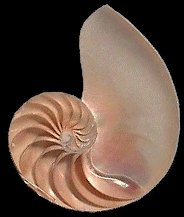
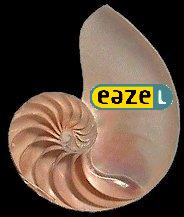
fixed update problem with zoom control and disabled arrows when
fixed update problem with zoom control and disabled arrows when
       appropriate.
       Also, crassly slapped an Eazel logo on the nautilus image

Changed region(s): [[0.462, 0.3871, 0.9511, 0.5253], [0.8152, 0.8571, 0.8424, 0.8848], [0.4348, 0.4424, 0.462, 0.47]]

diff --git a/src/nautilus-zoom-control.c b/src/nautilus-zoom-control.c
@@ -35,8 +35,11 @@
 
 static void nautilus_zoom_control_class_initialize 	(NautilusZoomControlClass *klass);
 static void nautilus_zoom_control_initialize       	(NautilusZoomControl *pixmap);
-static void nautilus_zoom_control_draw 				(GtkWidget *widget, GdkRectangle *box);
-static gboolean nautilus_zoom_control_button_press_event (GtkWidget *widget, GdkEventButton *event);
+static void nautilus_zoom_control_draw 			(GtkWidget *widget, GdkRectangle *box);
+static gint nautilus_zoom_control_expose 		(GtkWidget *widget, GdkEventExpose *event);
+static gboolean nautilus_zoom_control_button_press_event(GtkWidget *widget, GdkEventButton *event);
+
+void draw_number_and_disable_arrows(GtkWidget *widget, GdkRectangle *box);
 
 static GtkEventBoxClass *parent_class;
 
@@ -76,6 +79,7 @@ nautilus_zoom_control_class_initialize (NautilusZoomControlClass *class)
   parent_class = gtk_type_class (gtk_event_box_get_type ());
 
   widget_class->draw = nautilus_zoom_control_draw;
+  widget_class->expose_event = nautilus_zoom_control_expose;
   widget_class->button_press_event = nautilus_zoom_control_button_press_event;
 }
 
@@ -107,26 +111,15 @@ nautilus_zoom_control_new ()
   return GTK_WIDGET (zoom_control);
 }
 
-static void
-nautilus_zoom_control_draw (GtkWidget *widget, GdkRectangle *box)
+/* draw the current zoom percentage */
+void draw_number_and_disable_arrows(GtkWidget *widget, GdkRectangle *box)
 {
-  NautilusZoomControl *zoom_control;
   gchar buffer[8];
   GdkFont *label_font;
-  GdkGC* temp_gc;
-  
-  gint x, y, percent;
-
-  g_return_if_fail (widget != NULL);
-  g_return_if_fail (NAUTILUS_IS_ZOOM_CONTROL (widget));
-
-  zoom_control = NAUTILUS_ZOOM_CONTROL (widget);
-
-  /* invoke our superclass to draw the image */
- 	
-   NAUTILUS_CALL_PARENT_CLASS (GTK_WIDGET_CLASS, draw, (widget, box));
-
-  /* draw the current zoom level percentage */
+  GdkGC* temp_gc; 
+  gint x, y, percent; 
+  NautilusZoomControl *zoom_control = NAUTILUS_ZOOM_CONTROL (widget);
+ 
   label_font = gdk_font_load("-bitstream-courier-medium-r-normal-*-9-*-*-*-*-*-*-*");
   temp_gc = gdk_gc_new(widget->window);
 
@@ -137,9 +130,52 @@ nautilus_zoom_control_draw (GtkWidget *widget, GdkRectangle *box)
   y = (box->height >> 1) + 3;
     
   gdk_draw_string (widget->window, label_font, temp_gc, x, y, &buffer[0]);
-  
   gdk_font_unref(label_font);
+  
+  /* clear the arrows if necessary */
+  
+  if (zoom_control->current_zoom == zoom_control->min_zoom)
+    gdk_draw_rectangle (widget->window, widget->style->bg_gc[0], TRUE, 0, 0, box->width / 4, box->height);
+  else if (zoom_control->current_zoom == zoom_control->max_zoom)
+    gdk_draw_rectangle (widget->window, widget->style->bg_gc[0], TRUE, box->width - (box->width / 4), 0, box->width / 4, box->height);
+    
   gdk_gc_unref(temp_gc);
+
+}
+
+static void
+nautilus_zoom_control_draw (GtkWidget *widget, GdkRectangle *box)
+{ 
+  g_return_if_fail (widget != NULL);
+  g_return_if_fail (NAUTILUS_IS_ZOOM_CONTROL (widget));
+
+  /* invoke our superclass to draw the image */
+ 	
+  NAUTILUS_CALL_PARENT_CLASS (GTK_WIDGET_CLASS, draw, (widget, box));
+
+  draw_number_and_disable_arrows(widget, box);
+}
+
+/* handle expose events */
+
+static gint
+nautilus_zoom_control_expose (GtkWidget *widget, GdkEventExpose *event)
+{
+  GdkRectangle box;
+  g_return_val_if_fail (widget != NULL, FALSE);
+  g_return_val_if_fail (NAUTILUS_IS_ZOOM_CONTROL (widget), FALSE);
+
+  /* invoke our superclass to draw the image */
+ 	
+  NAUTILUS_CALL_PARENT_CLASS (GTK_WIDGET_CLASS, expose_event, (widget, event));
+
+  box.x = 0; box.y = 0;
+  box.width = widget->allocation.width;
+  box.height = widget->allocation.height;
+  
+  draw_number_and_disable_arrows(widget, &box);
+  
+  return FALSE;
 }
 
 /* hit-test the index tabs and activate if necessary */
